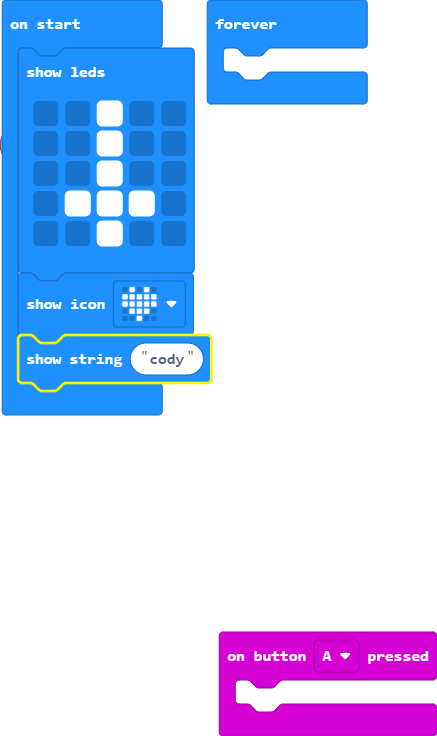
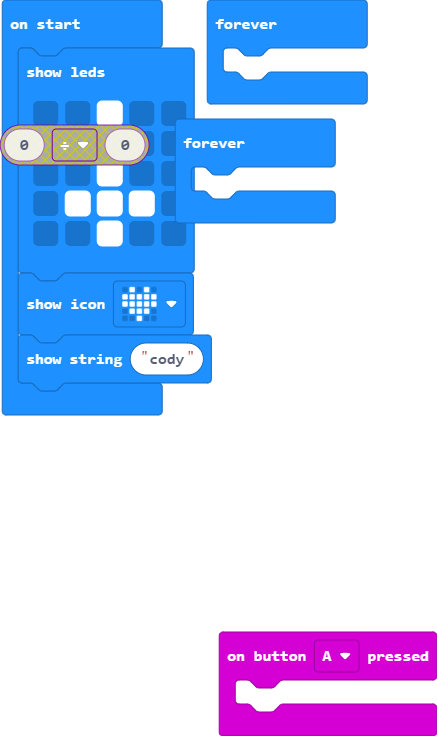
Update main.blocks, main.ts

Changed region(s): [[0.3867, 0.1562, 0.7735, 0.3125], [0.0297, 0.4375, 0.5057, 0.5312], [0.0, 0.1562, 0.357, 0.25]]

diff --git a/main.ts b/main.ts
@@ -13,3 +13,6 @@ basic.showString("cody")
 basic.forever(function () {
 	
 })
+basic.forever(function () {
+	
+})
